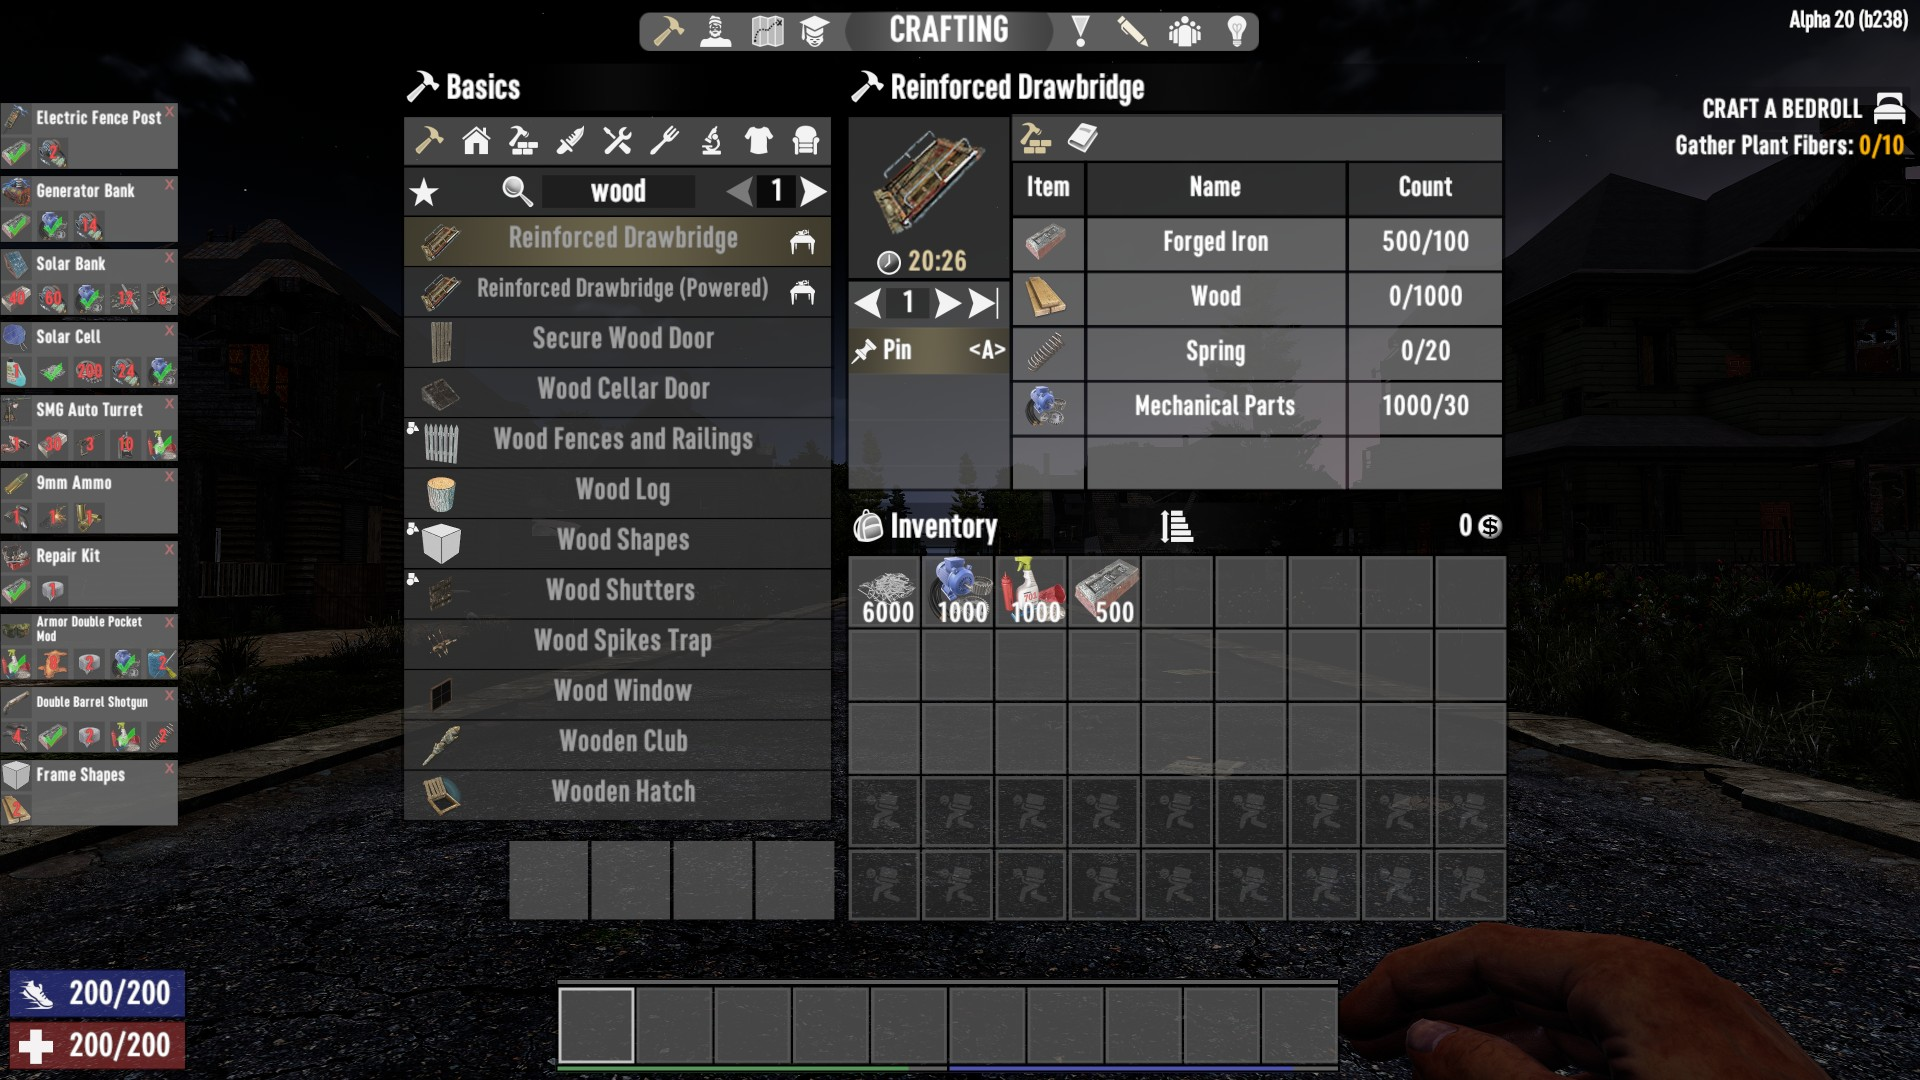
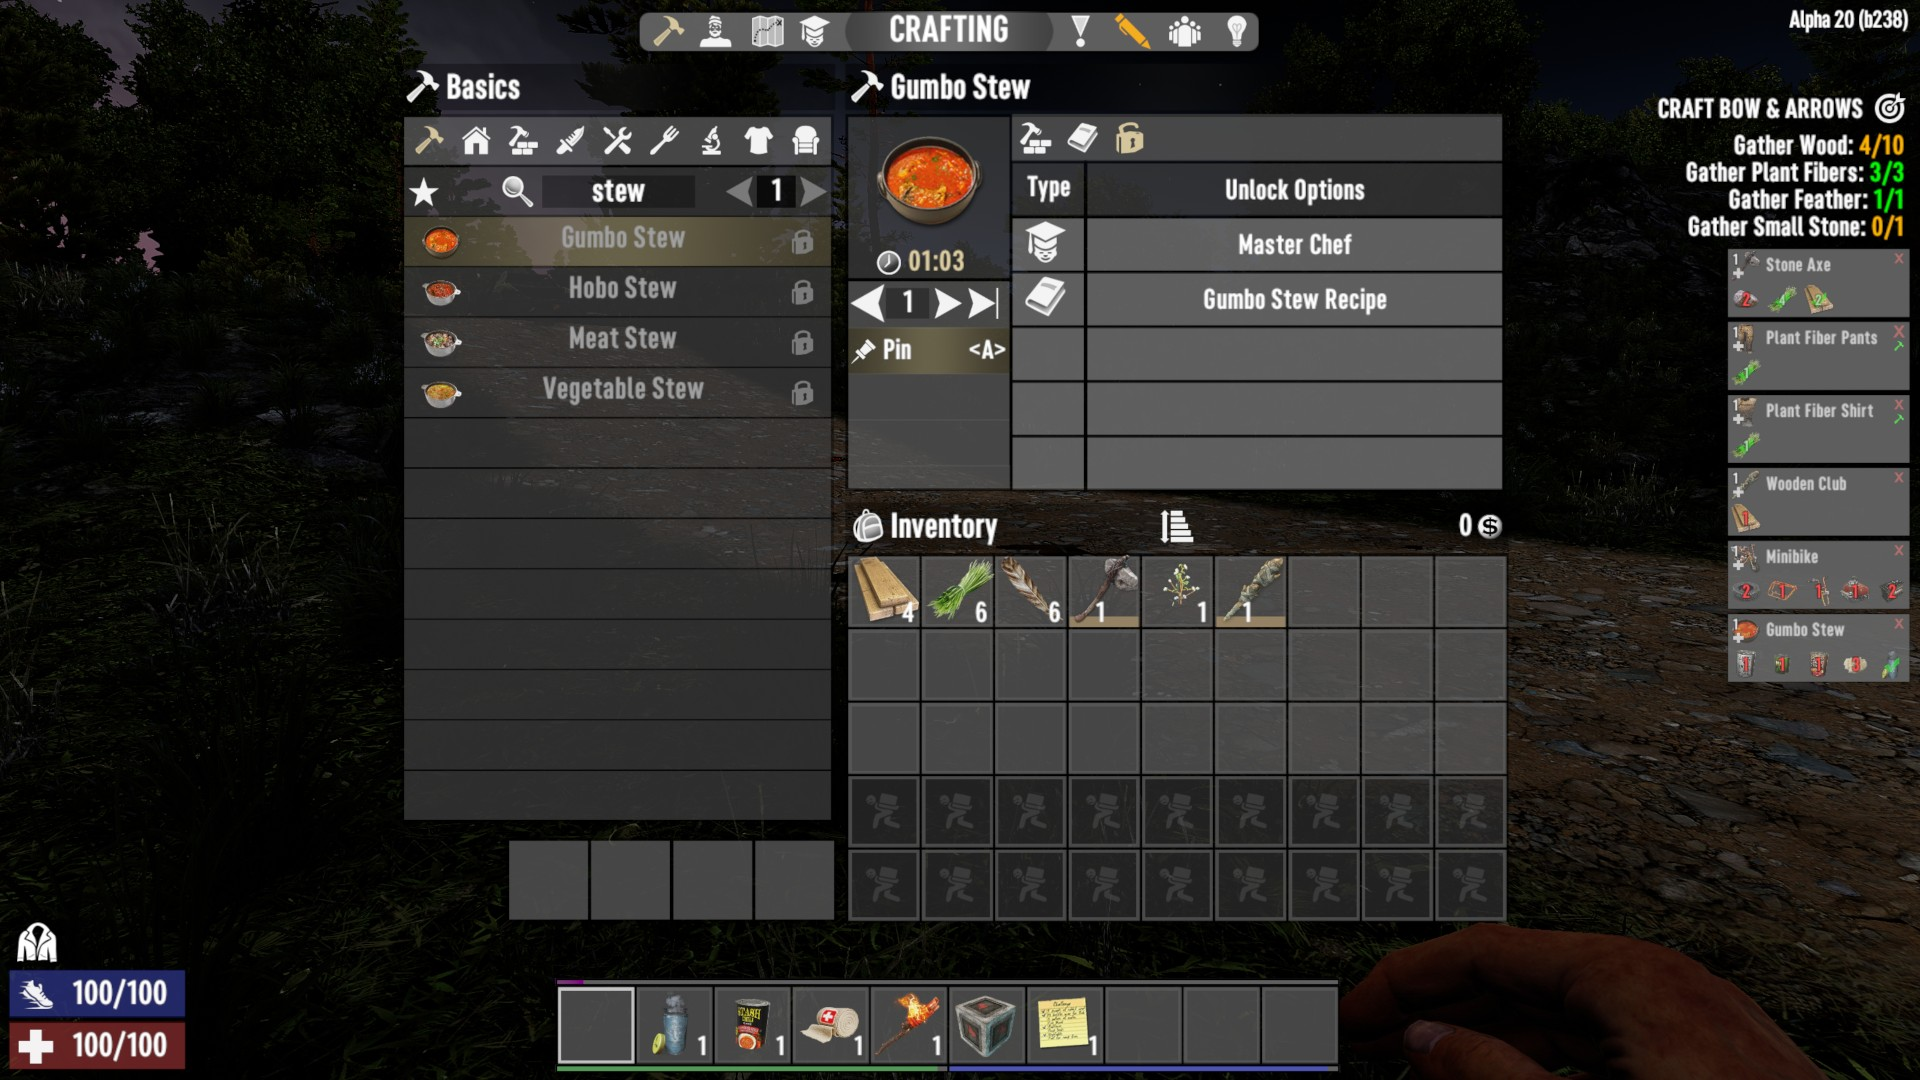
Move window to the right side for less UI interference
Also reduce maximum amount of pinned recipes to 6

diff --git a/README.md b/README.md
@@ -23,6 +23,13 @@ here on GitHub if you find any issues with it.
 
 ## Changelog
 
+### Version 0.4.0
+
+- Move window to the right side for less UI interference
+- Reduce maximum amount of pinned recipes to 6
+- Fix edge case with ingredients that have qualities
+- Fix typo in controls.xml (pinned_recipe_ingredient_row)
+
 ### Version 0.3.4
 
 - Moved `hasCraftArea` binding to root UI element
